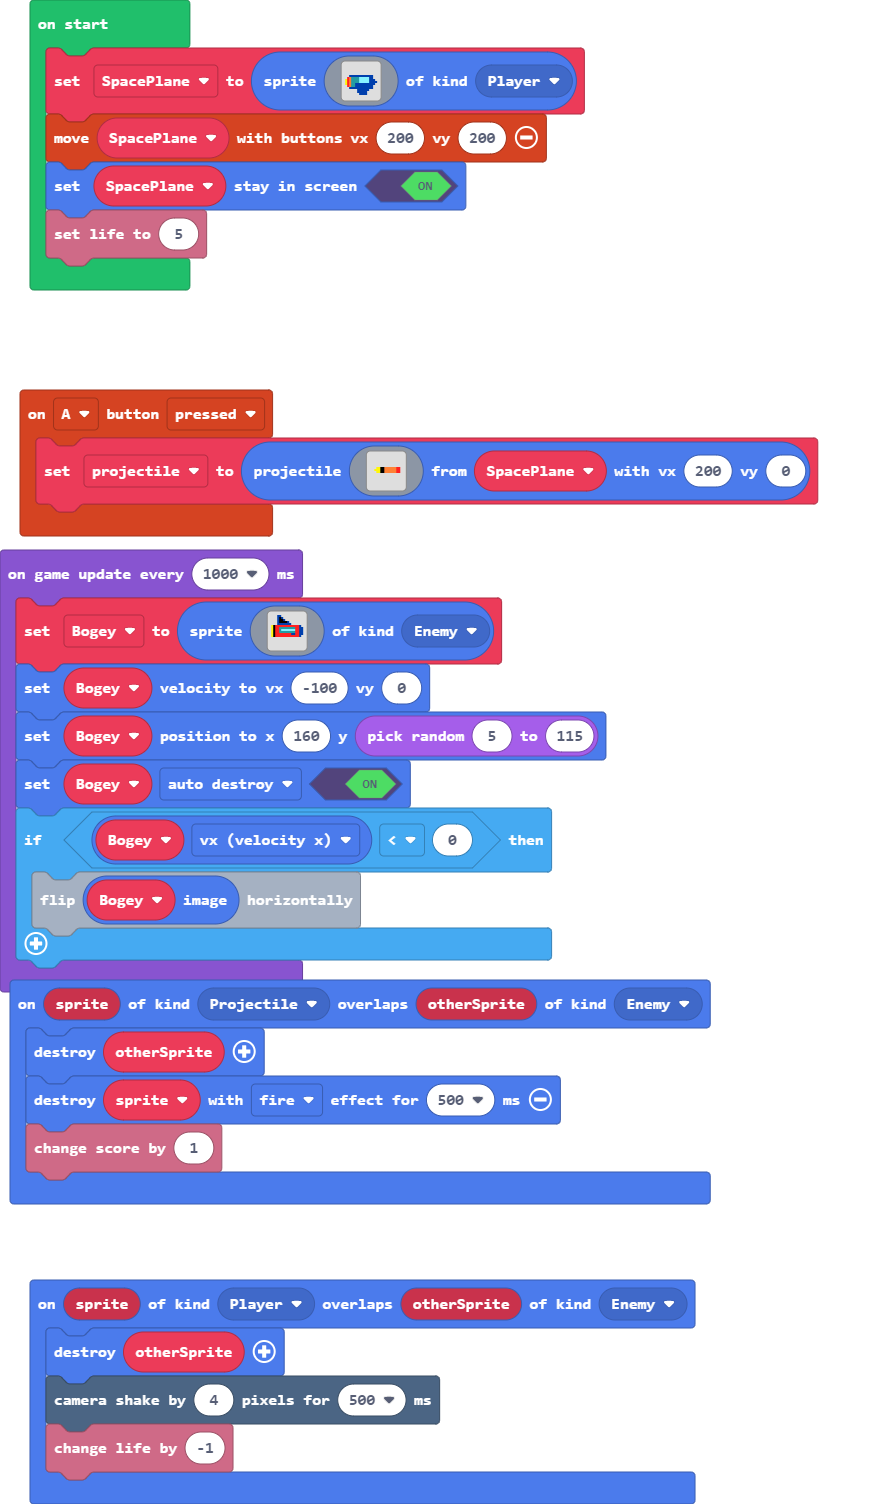
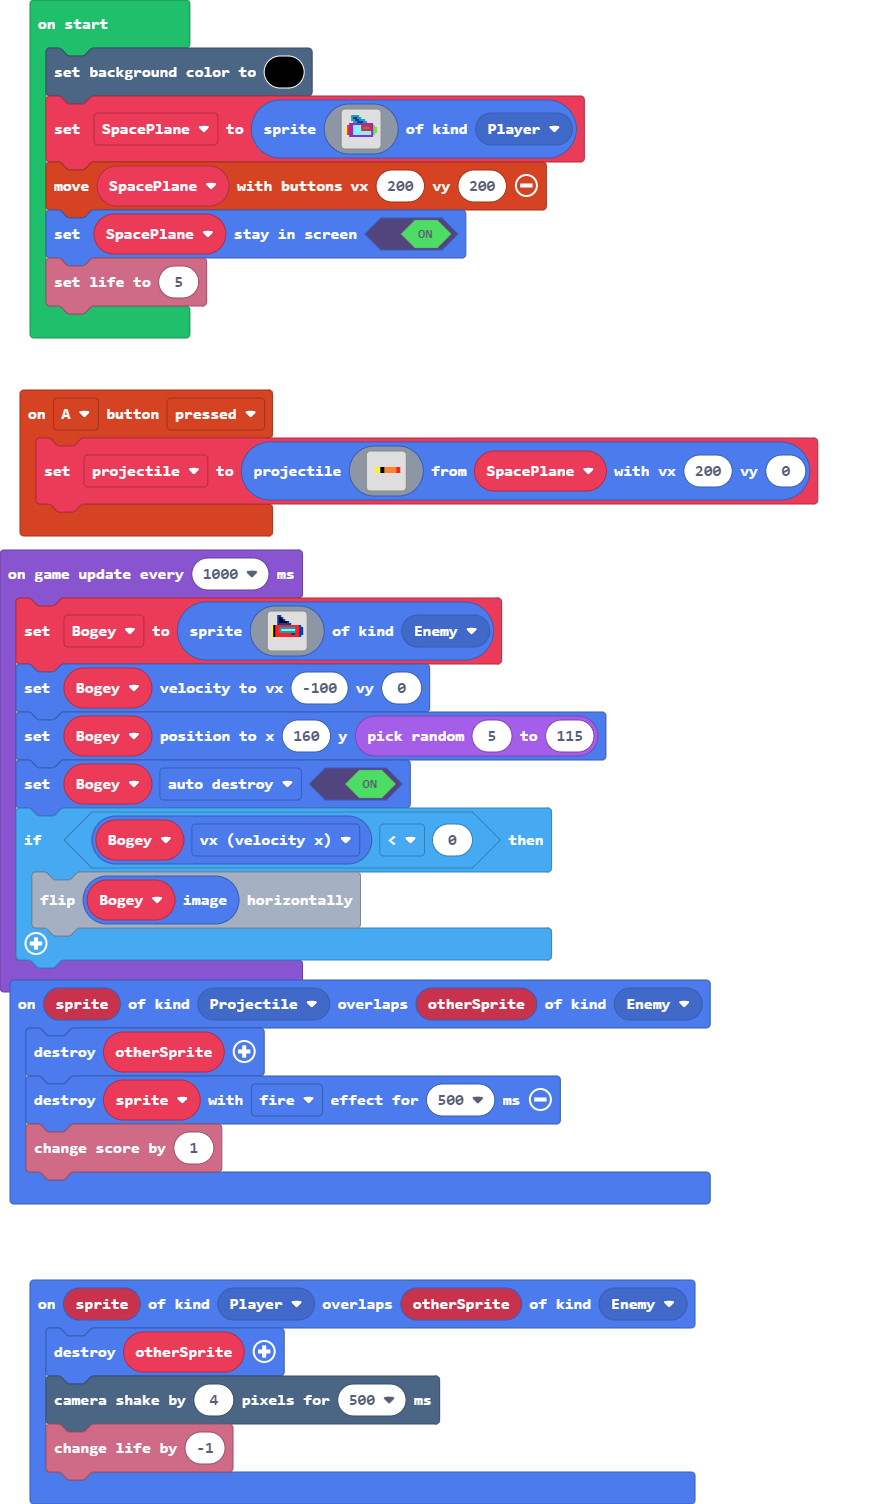
Update pxt.json, main.blocks, main.ts, images.g.jres, images.g.ts

Changed region(s): [[0.031, 0.0312, 0.6828, 0.25]]

diff --git a/images.g.ts b/images.g.ts
@@ -775,24 +775,6 @@ namespace myImages {
 . . . . . . . . . . . . . . . . 
 . . . . . . . . . . . . . . . . 
 `;
-            case "image25":return img`
-. . . . . . . . . . . . . . . . 
-. . . . . . . . . . . . . . . . 
-. . . . . . . . . . . . . . . . 
-. . . . . . . . . . . . . . . . 
-. . . . . . . . . . . . . . . . 
-. . 8 8 8 8 8 8 8 8 8 8 8 8 . . 
-. 2 4 6 6 6 6 9 9 9 9 9 8 8 . . 
-5 2 4 6 6 6 6 9 9 9 9 9 8 8 8 . 
-5 2 4 6 6 6 6 9 9 9 9 9 8 8 8 8 
-5 2 4 6 6 8 8 8 8 8 8 8 8 8 8 . 
-. 2 4 6 6 8 8 8 8 8 8 8 8 8 . . 
-. . 8 8 8 8 8 8 8 8 8 8 8 8 . . 
-. . . . . . 8 8 8 8 8 8 . . . . 
-. . . . . . 8 8 8 8 8 . . . . . 
-. . . . . . . 8 8 8 8 . . . . . 
-. . . . . . . . . . . . . . . . 
-`;
             case "image26":return img`
 . . . . . . . . . . . . . . . . 
 . . . . . . . . . . . . . . . . 
@@ -824,6 +806,24 @@ namespace myImages {
 5 f 2 2 2 2 2 2 2 2 8 8 2 2 8 8 
 5 f 2 2 2 2 2 2 2 2 2 2 2 2 8 . 
 . . . . . . . . . . . . . . . . 
+. . . . . . . . . . . . . . . . 
+. . . . . . . . . . . . . . . . 
+. . . . . . . . . . . . . . . . 
+. . . . . . . . . . . . . . . . 
+`;
+            case "image25":return img`
+. . . . . . . . . . . . . . . . 
+. . . 6 6 6 6 . . . . . . . . . 
+. . . 6 8 8 6 6 . . . . . . . . 
+. . . 6 6 8 8 6 6 6 . . . . . . 
+. . . . 6 6 8 8 8 6 6 . . . . . 
+. . a a a a a a a a a a a a . . 
+. 2 a a 9 9 9 9 2 2 2 2 2 a 7 . 
+5 2 a a 9 9 9 9 2 6 6 6 2 a 7 7 
+5 2 a a 9 9 9 9 2 2 2 2 2 a 7 7 
+5 2 a a 9 9 9 9 9 9 9 9 9 a 7 7 
+. 2 a a 9 9 9 9 9 9 9 9 9 a 7 . 
+. . a a a a a a a a a a a a . . 
 . . . . . . . . . . . . . . . . 
 . . . . . . . . . . . . . . . . 
 . . . . . . . . . . . . . . . . 

diff --git a/main.ts b/main.ts
@@ -31,22 +31,23 @@ sprites.onOverlap(SpriteKind.Player, SpriteKind.Enemy, function (sprite, otherSp
 let Bogey: Sprite = null
 let projectile: Sprite = null
 let SpacePlane: Sprite = null
+scene.setBackgroundColor(15)
 SpacePlane = sprites.create(img`
     . . . . . . . . . . . . . . . . 
+    . . . 6 6 6 6 . . . . . . . . . 
+    . . . 6 8 8 6 6 . . . . . . . . 
+    . . . 6 6 8 8 6 6 6 . . . . . . 
+    . . . . 6 6 8 8 8 6 6 . . . . . 
+    . . a a a a a a a a a a a a . . 
+    . 2 a a 9 9 9 9 2 2 2 2 2 a 7 . 
+    5 2 a a 9 9 9 9 2 6 6 6 2 a 7 7 
+    5 2 a a 9 9 9 9 2 2 2 2 2 a 7 7 
+    5 2 a a 9 9 9 9 9 9 9 9 9 a 7 7 
+    . 2 a a 9 9 9 9 9 9 9 9 9 a 7 . 
+    . . a a a a a a a a a a a a . . 
     . . . . . . . . . . . . . . . . 
     . . . . . . . . . . . . . . . . 
     . . . . . . . . . . . . . . . . 
-    . . . . . . . . . . . . . . . . 
-    . . 8 8 8 8 8 8 8 8 8 8 8 8 . . 
-    . 2 4 6 6 6 6 9 9 9 9 9 8 8 . . 
-    5 2 4 6 6 6 6 9 9 9 9 9 8 8 8 . 
-    5 2 4 6 6 6 6 9 9 9 9 9 8 8 8 8 
-    5 2 4 6 6 8 8 8 8 8 8 8 8 8 8 . 
-    . 2 4 6 6 8 8 8 8 8 8 8 8 8 . . 
-    . . 8 8 8 8 8 8 8 8 8 8 8 8 . . 
-    . . . . . . 8 8 8 8 8 8 . . . . 
-    . . . . . . 8 8 8 8 8 . . . . . 
-    . . . . . . . 8 8 8 8 . . . . . 
     . . . . . . . . . . . . . . . . 
     `, SpriteKind.Player)
 controller.moveSprite(SpacePlane, 200, 200)
